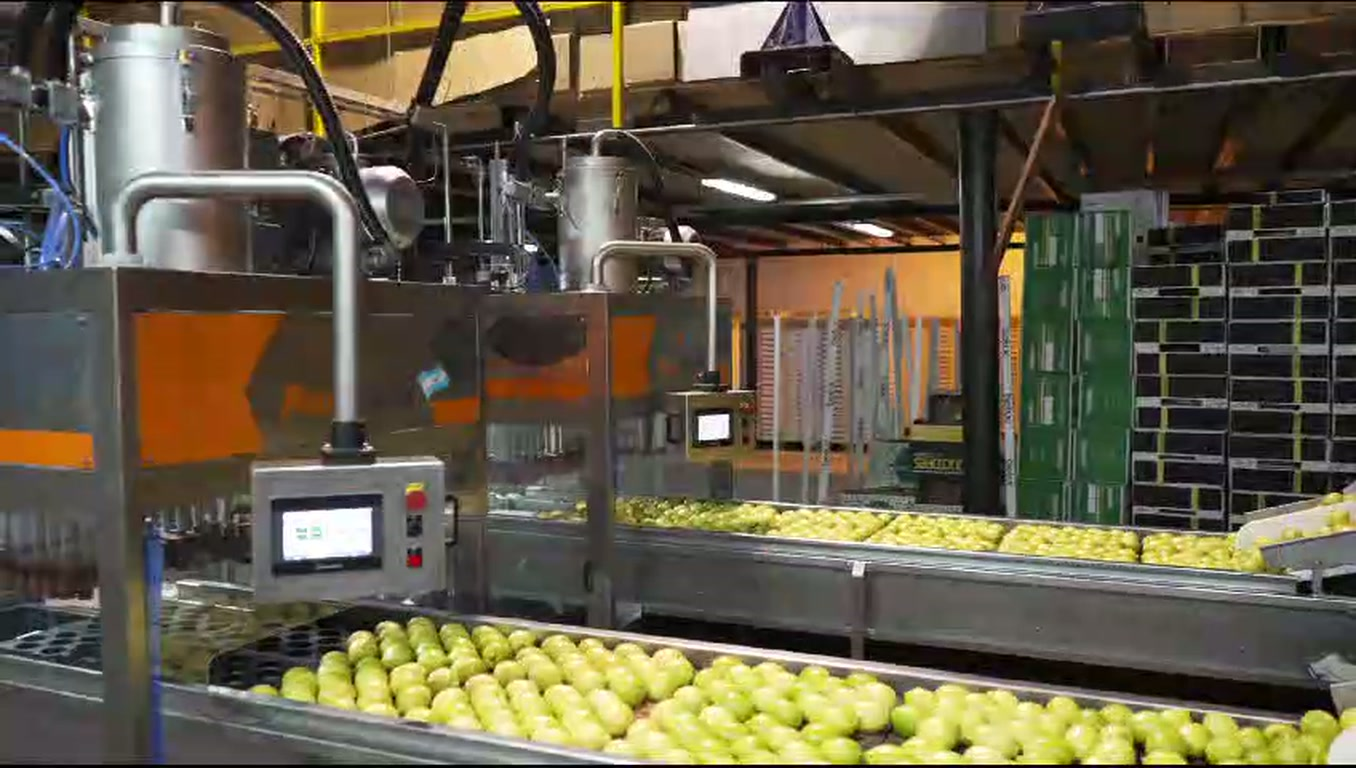
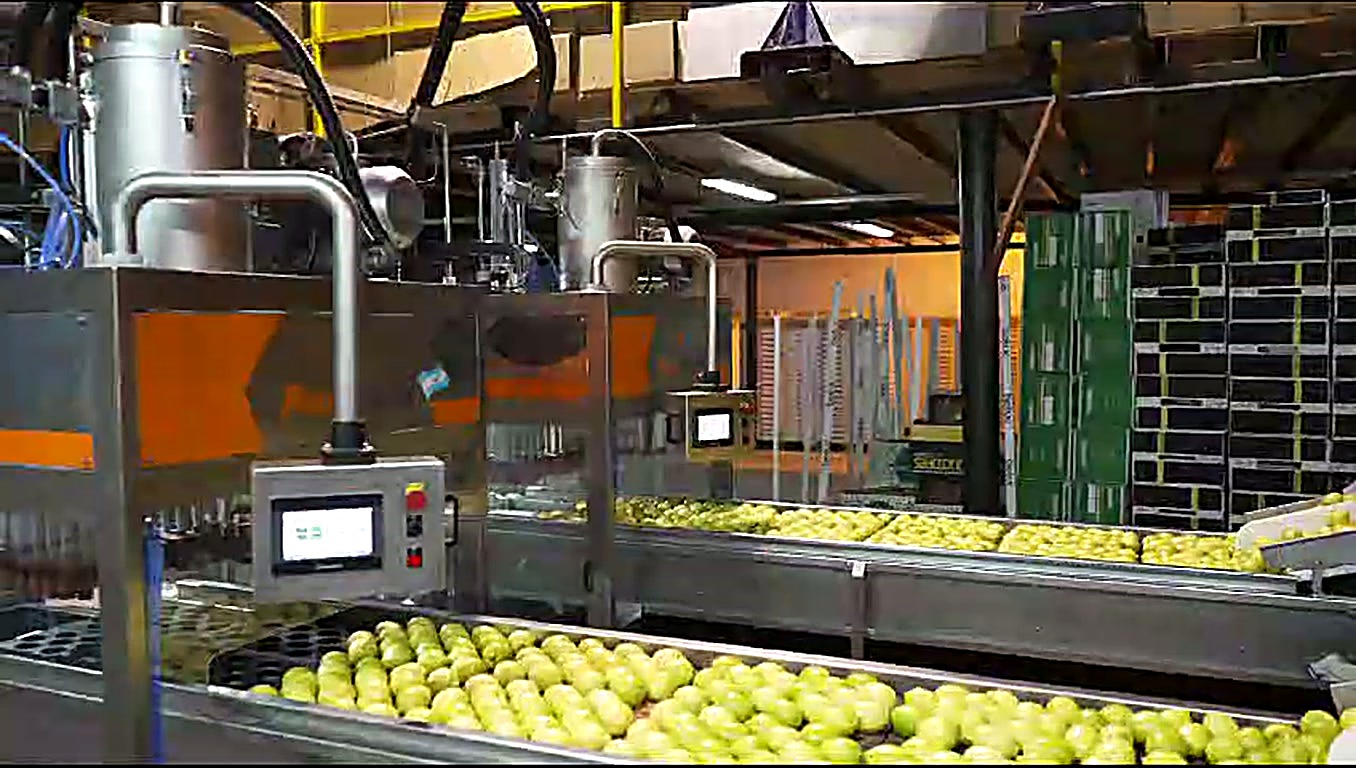
Melhora a qualidade de todas as fotos do site
Aplica denoise + nitidez (unsharp mask) + realce de contraste/cor em
todas as fotos extraídas de vídeo (etapas da linha, aplicações,
posters dos heros, troca de calibre), reduzindo a suavidade herdada
do upscale da fonte original. A foto da Sobre (câmera real) recebe
apenas um ajuste leve. Cache-bust (?v=2) nas 18 imagens referenciadas
pelas páginas para garantir que os visitantes recebam a atualização.

diff --git a/index.html b/index.html
@@ -49,7 +49,7 @@
   <!-- HERO -->
   <section class="hero">
     <div class="hero-media">
-      <video autoplay muted loop playsinline poster="/assets/img/hero-poster.jpg">
+      <video autoplay muted loop playsinline poster="/assets/img/hero-poster.jpg?v=2">
         <source src="/assets/video/hero-linha.mp4" type="video/mp4">
       </video>
     </div>
@@ -111,32 +111,32 @@
       <div class="steps-grid">
         <div class="step-card reveal">
           <span class="step-num">1</span>
-          <img src="/assets/img/etapa-entrada.jpg" alt="Cinta de entrada recebendo fruta classificada" loading="lazy">
+          <img src="/assets/img/etapa-entrada.jpg?v=2" alt="Cinta de entrada recebendo fruta classificada" loading="lazy">
           <span class="step-caption">Cinta de entrada de fruta</span>
         </div>
         <div class="step-card reveal">
           <span class="step-num">2</span>
-          <img src="/assets/img/etapa-acumulador.jpg" alt="Acumulador de frutas regulando o abastecimento da linha" loading="lazy">
+          <img src="/assets/img/etapa-acumulador.jpg?v=2" alt="Acumulador de frutas regulando o abastecimento da linha" loading="lazy">
           <span class="step-caption">Acumulador de frutas</span>
         </div>
         <div class="step-card reveal">
           <span class="step-num">3</span>
-          <img src="/assets/img/etapa-transportador.jpg" alt="Transportador distribuindo a fruta para a captação" loading="lazy">
+          <img src="/assets/img/etapa-transportador.jpg?v=2" alt="Transportador distribuindo a fruta para a captação" loading="lazy">
           <span class="step-caption">Transportador de frutas</span>
         </div>
         <div class="step-card reveal">
           <span class="step-num">4</span>
-          <img src="/assets/img/etapa-encaixotamento.jpg" alt="Cabeçote telescópico captando camada de frutas para a caixa" loading="lazy">
+          <img src="/assets/img/etapa-encaixotamento.jpg?v=2" alt="Cabeçote telescópico captando camada de frutas para a caixa" loading="lazy">
           <span class="step-caption">Encaixotamento</span>
         </div>
         <div class="step-card reveal">
           <span class="step-num">5</span>
-          <img src="/assets/img/etapa-saida.jpg" alt="Esteira de saída com caixas montadas prontas para paletização" loading="lazy">
+          <img src="/assets/img/etapa-saida.jpg?v=2" alt="Esteira de saída com caixas montadas prontas para paletização" loading="lazy">
           <span class="step-caption">Esteira de saída de caixas</span>
         </div>
         <div class="step-card reveal">
           <span class="step-num">6</span>
-          <img src="/assets/img/etapa-painel.jpg" alt="Painel de controle RUNPack com receitas de produto" loading="lazy">
+          <img src="/assets/img/etapa-painel.jpg?v=2" alt="Painel de controle RUNPack com receitas de produto" loading="lazy">
           <span class="step-caption">Painel de controle RUNPack</span>
         </div>
       </div>
@@ -148,7 +148,7 @@
     <div class="container">
       <div class="split reverse">
         <div class="split-media reveal">
-          <img src="/assets/img/calibre-troca.jpg" alt="Operador trocando as ventosas do cabeçote para outro calibre de fruta" loading="lazy">
+          <img src="/assets/img/calibre-troca.jpg?v=2" alt="Operador trocando as ventosas do cabeçote para outro calibre de fruta" loading="lazy">
         </div>
         <div class="reveal">
           <span class="eyebrow"><span class="chevron"></span> Troca de formato/calibre</span>
@@ -169,7 +169,7 @@
       </div>
       <div class="bento-grid reveal">
         <div class="bento-card">
-          <div class="bento-graphic"><img src="/assets/img/aplicacao-maca.jpg" alt="Fruta redonda sendo manipulada na linha RUNPack" loading="lazy"></div>
+          <div class="bento-graphic"><img src="/assets/img/aplicacao-maca.jpg?v=2" alt="Fruta redonda sendo manipulada na linha RUNPack" loading="lazy"></div>
           <div class="bento-body">
             <span class="bento-eyebrow">Fruta</span>
             <h3>Maçã / pera</h3>
@@ -177,7 +177,7 @@
           </div>
         </div>
         <div class="bento-card">
-          <div class="bento-graphic"><img src="/assets/img/aplicacao-laranja.jpg" alt="Laranjas sendo captadas pelo cabeçote telescópico" loading="lazy"></div>
+          <div class="bento-graphic"><img src="/assets/img/aplicacao-laranja.jpg?v=2" alt="Laranjas sendo captadas pelo cabeçote telescópico" loading="lazy"></div>
           <div class="bento-body">
             <span class="bento-eyebrow">Fruta</span>
             <h3>Laranja</h3>
@@ -185,7 +185,7 @@
           </div>
         </div>
         <div class="bento-card">
-          <div class="bento-graphic"><img src="/assets/img/aplicacao-tangerina.jpg" alt="Caixas de tangerina prontas na esteira de saída" loading="lazy"></div>
+          <div class="bento-graphic"><img src="/assets/img/aplicacao-tangerina.jpg?v=2" alt="Caixas de tangerina prontas na esteira de saída" loading="lazy"></div>
           <div class="bento-body">
             <span class="bento-eyebrow">Fruta</span>
             <h3>Tangerina</h3>

diff --git a/como-funciona/index.html b/como-funciona/index.html
@@ -38,7 +38,7 @@
 
   <section class="page-hero on-video" style="padding-bottom:40px">
     <div class="page-hero-media">
-      <video autoplay muted loop playsinline poster="/assets/img/hero-como-funciona-poster.jpg">
+      <video autoplay muted loop playsinline poster="/assets/img/hero-como-funciona-poster.jpg?v=2">
         <source src="/assets/video/hero-como-funciona.mp4" type="video/mp4">
       </video>
     </div>
@@ -66,7 +66,7 @@
 
       <div class="flow-step" id="entrada">
         <div class="flow-media reveal">
-          <img src="/assets/img/etapa-entrada.jpg" alt="Cinta de entrada recebendo fruta classificada" loading="lazy">
+          <img src="/assets/img/etapa-entrada.jpg?v=2" alt="Cinta de entrada recebendo fruta classificada" loading="lazy">
         </div>
         <div class="reveal">
           <span class="flow-index">ETAPA 01</span>
@@ -77,7 +77,7 @@
 
       <div class="flow-step reverse" id="acumulacao">
         <div class="flow-media reveal">
-          <img src="/assets/img/etapa-acumulador.jpg" alt="Acumulador de frutas regulando o abastecimento da linha" loading="lazy">
+          <img src="/assets/img/etapa-acumulador.jpg?v=2" alt="Acumulador de frutas regulando o abastecimento da linha" loading="lazy">
         </div>
         <div class="reveal">
           <span class="flow-index">ETAPA 02</span>
@@ -88,7 +88,7 @@
 
       <div class="flow-step" id="transporte">
         <div class="flow-media reveal">
-          <img src="/assets/img/etapa-transportador.jpg" alt="Transportador distribuindo a fruta para a captação" loading="lazy">
+          <img src="/assets/img/etapa-transportador.jpg?v=2" alt="Transportador distribuindo a fruta para a captação" loading="lazy">
         </div>
         <div class="reveal">
           <span class="flow-index">ETAPA 03</span>
@@ -99,7 +99,7 @@
 
       <div class="flow-step reverse" id="encaixotamento">
         <div class="flow-media reveal">
-          <img src="/assets/img/etapa-encaixotamento.jpg" alt="Cabeçote telescópico captando camada de frutas para a caixa" loading="lazy">
+          <img src="/assets/img/etapa-encaixotamento.jpg?v=2" alt="Cabeçote telescópico captando camada de frutas para a caixa" loading="lazy">
         </div>
         <div class="reveal">
           <span class="flow-index">ETAPA 04</span>
@@ -110,7 +110,7 @@
 
       <div class="flow-step" id="saida">
         <div class="flow-media reveal">
-          <img src="/assets/img/etapa-saida.jpg" alt="Esteira de saída com caixas montadas prontas para paletização" loading="lazy">
+          <img src="/assets/img/etapa-saida.jpg?v=2" alt="Esteira de saída com caixas montadas prontas para paletização" loading="lazy">
         </div>
         <div class="reveal">
           <span class="flow-index">ETAPA 05</span>
@@ -121,7 +121,7 @@
 
       <div class="flow-step reverse" id="controle">
         <div class="flow-media reveal">
-          <img src="/assets/img/etapa-painel.jpg" alt="Painel de controle RUNPack com receitas de produto" loading="lazy">
+          <img src="/assets/img/etapa-painel.jpg?v=2" alt="Painel de controle RUNPack com receitas de produto" loading="lazy">
         </div>
         <div class="reveal">
           <span class="flow-index">ETAPA 06</span>

diff --git a/aplicacoes/index.html b/aplicacoes/index.html
@@ -38,7 +38,7 @@
 
   <section class="page-hero on-video">
     <div class="page-hero-media">
-      <video autoplay muted loop playsinline poster="/assets/img/hero-aplicacoes-poster.jpg">
+      <video autoplay muted loop playsinline poster="/assets/img/hero-aplicacoes-poster.jpg?v=2">
         <source src="/assets/video/hero-aplicacoes.mp4" type="video/mp4">
       </video>
     </div>
@@ -53,15 +53,15 @@
     <div class="container">
       <div class="grid-3">
         <div class="card reveal">
-          <div class="card-img"><img src="/assets/img/aplicacao-maca.jpg" alt="Fruta redonda sendo manipulada na linha RUNPack" loading="lazy"></div>
+          <div class="card-img"><img src="/assets/img/aplicacao-maca.jpg?v=2" alt="Fruta redonda sendo manipulada na linha RUNPack" loading="lazy"></div>
           <div class="card-body"><h3>Maçã / pera</h3><p>Captação por ventosas sem impacto na casca, mantendo o valor comercial da fruta.</p></div>
         </div>
         <div class="card reveal">
-          <div class="card-img"><img src="/assets/img/aplicacao-laranja.jpg" alt="Laranjas sendo captadas pelo cabeçote telescópico" loading="lazy"></div>
+          <div class="card-img"><img src="/assets/img/aplicacao-laranja.jpg?v=2" alt="Laranjas sendo captadas pelo cabeçote telescópico" loading="lazy"></div>
           <div class="card-body"><h3>Laranja</h3><p>Mesma linha, receita de calibre diferente — sem troca de equipamento.</p></div>
         </div>
         <div class="card reveal">
-          <div class="card-img"><img src="/assets/img/aplicacao-tangerina.jpg" alt="Caixas de tangerina prontas na esteira de saída" loading="lazy"></div>
+          <div class="card-img"><img src="/assets/img/aplicacao-tangerina.jpg?v=2" alt="Caixas de tangerina prontas na esteira de saída" loading="lazy"></div>
           <div class="card-body"><h3>Tangerina</h3><p>Formato de caixa ajustado diretamente no painel touch.</p></div>
         </div>
         <div class="card reveal" style="opacity:.7">
@@ -84,7 +84,7 @@
     <div class="container">
       <div class="split reveal">
         <div class="split-media">
-          <img src="/assets/img/calibre-troca.jpg" alt="Operador trocando as ventosas do cabeçote para outro calibre de fruta" loading="lazy">
+          <img src="/assets/img/calibre-troca.jpg?v=2" alt="Operador trocando as ventosas do cabeçote para outro calibre de fruta" loading="lazy">
         </div>
         <div>
           <span class="eyebrow"><span class="chevron"></span> Formatos de caixa</span>

diff --git a/maquinas/telescopica-rpe/index.html b/maquinas/telescopica-rpe/index.html
@@ -17,7 +17,7 @@
   "name": "Empacadora Telescópica-RPE",
   "brand": { "@type": "Brand", "name": "Braspack" },
   "description": "Empacadora automática de fruta em caixa com cabeçote telescópico de ventosas e troca rápida de formato/calibre, tecnologia RUNPack. Produção de até 600 caixas/hora em picos.",
-  "image": "/assets/img/etapa-encaixotamento.jpg"
+  "image": "/assets/img/etapa-encaixotamento.jpg?v=2"
 }
 </script>
 </head>
@@ -61,7 +61,7 @@
           </div>
         </div>
         <div class="split-media">
-          <img src="/assets/img/etapa-encaixotamento.jpg" alt="Cabeçote telescópico da Telescópica-RPE captando camada de frutas" loading="lazy">
+          <img src="/assets/img/etapa-encaixotamento.jpg?v=2" alt="Cabeçote telescópico da Telescópica-RPE captando camada de frutas" loading="lazy">
         </div>
       </div>
     </div>
@@ -101,7 +101,7 @@
     <div class="container">
       <div class="split reverse">
         <div class="split-media reveal">
-          <img src="/assets/img/etapa-painel.jpg" alt="Painel touch da Telescópica-RPE com receitas de produto" loading="lazy">
+          <img src="/assets/img/etapa-painel.jpg?v=2" alt="Painel touch da Telescópica-RPE com receitas de produto" loading="lazy">
         </div>
         <div class="reveal">
           <span class="eyebrow"><span class="chevron"></span> Características</span>
@@ -127,7 +127,7 @@
         <h2>A Telescópica-RPE em operação</h2>
       </div>
       <div class="reveal" style="max-width:900px;margin:0 auto;border-radius:var(--radius);overflow:hidden;box-shadow:var(--shadow-md)">
-        <video controls preload="none" poster="/assets/img/hero-poster.jpg" style="width:100%;display:block;background:#000">
+        <video controls preload="none" poster="/assets/img/hero-poster.jpg?v=2" style="width:100%;display:block;background:#000">
           <source src="/assets/video/telescopica-rpe-completo.mp4" type="video/mp4">
         </video>
       </div>

diff --git a/sobre/index.html b/sobre/index.html
@@ -38,7 +38,7 @@
 
   <section class="page-hero on-video">
     <div class="page-hero-media">
-      <video autoplay muted loop playsinline poster="/assets/img/hero-sobre-poster.jpg">
+      <video autoplay muted loop playsinline poster="/assets/img/hero-sobre-poster.jpg?v=2">
         <source src="/assets/video/hero-sobre.mp4" type="video/mp4">
       </video>
     </div>
@@ -53,7 +53,7 @@
     <div class="container">
       <div class="split reverse reveal">
         <div class="split-media reveal">
-          <img src="/assets/img/sobre-linha-operacao.jpg" alt="Linha RUNPack em operação em packing house, com caixas de lima Tahiti sendo preenchidas" loading="lazy">
+          <img src="/assets/img/sobre-linha-operacao.jpg?v=2" alt="Linha RUNPack em operação em packing house, com caixas de lima Tahiti sendo preenchidas" loading="lazy">
           <p class="lede" style="max-width:none;text-align:left;line-height:1.75;margin-top:22px">Hoje, cerca de <strong>10 equipamentos</strong> já operam em diferentes packings no estado de São Paulo, em condições comerciais reais — uma solução comprovada em campo, não um protótipo experimental. Além da atividade industrial, a Braspack está habilitada a operar como importadora e exportadora.</p>
         </div>
         <div class="reveal">
@@ -74,7 +74,7 @@
         <p class="lede" style="margin-inline:auto">Apresentação completa da linha, com áudio.</p>
       </div>
       <div class="reveal" style="max-width:900px;margin:0 auto;border-radius:var(--radius);overflow:hidden;box-shadow:var(--shadow-md)">
-        <video controls preload="none" poster="/assets/img/hero-poster.jpg" style="width:100%;display:block;background:#000">
+        <video controls preload="none" poster="/assets/img/hero-poster.jpg?v=2" style="width:100%;display:block;background:#000">
           <source src="/assets/video/telescopica-rpe-completo.mp4" type="video/mp4">
         </video>
       </div>

diff --git a/maquinas/index.html b/maquinas/index.html
@@ -55,7 +55,7 @@
 
   <section class="page-hero on-video">
     <div class="page-hero-media">
-      <video autoplay muted loop playsinline poster="/assets/img/hero-maquinas-poster.jpg">
+      <video autoplay muted loop playsinline poster="/assets/img/hero-maquinas-poster.jpg?v=2">
         <source src="/assets/video/hero-maquinas.mp4" type="video/mp4">
       </video>
     </div>
@@ -71,7 +71,7 @@
       <div class="grid-3">
 
         <a href="/maquinas/telescopica-rpe/" class="card reveal">
-          <div class="card-img"><img src="/assets/img/etapa-encaixotamento.jpg" alt="Empacadora Telescópica-RPE captando camada de frutas" loading="lazy"></div>
+          <div class="card-img"><img src="/assets/img/etapa-encaixotamento.jpg?v=2" alt="Empacadora Telescópica-RPE captando camada de frutas" loading="lazy"></div>
           <div class="card-body">
             <span class="card-tag">Empacadora</span>
             <h3>Telescópica-RPE</h3>

diff --git a/contato/index.html b/contato/index.html
@@ -38,7 +38,7 @@
 
   <section class="page-hero on-video">
     <div class="page-hero-media">
-      <video autoplay muted loop playsinline poster="/assets/img/hero-contato-poster.jpg">
+      <video autoplay muted loop playsinline poster="/assets/img/hero-contato-poster.jpg?v=2">
         <source src="/assets/video/hero-contato.mp4" type="video/mp4">
       </video>
     </div>

diff --git a/suporte/index.html b/suporte/index.html
@@ -38,7 +38,7 @@
 
   <section class="page-hero on-video">
     <div class="page-hero-media">
-      <video autoplay muted loop playsinline poster="/assets/img/hero-suporte-poster.jpg">
+      <video autoplay muted loop playsinline poster="/assets/img/hero-suporte-poster.jpg?v=2">
         <source src="/assets/video/hero-suporte.mp4" type="video/mp4">
       </video>
     </div>
